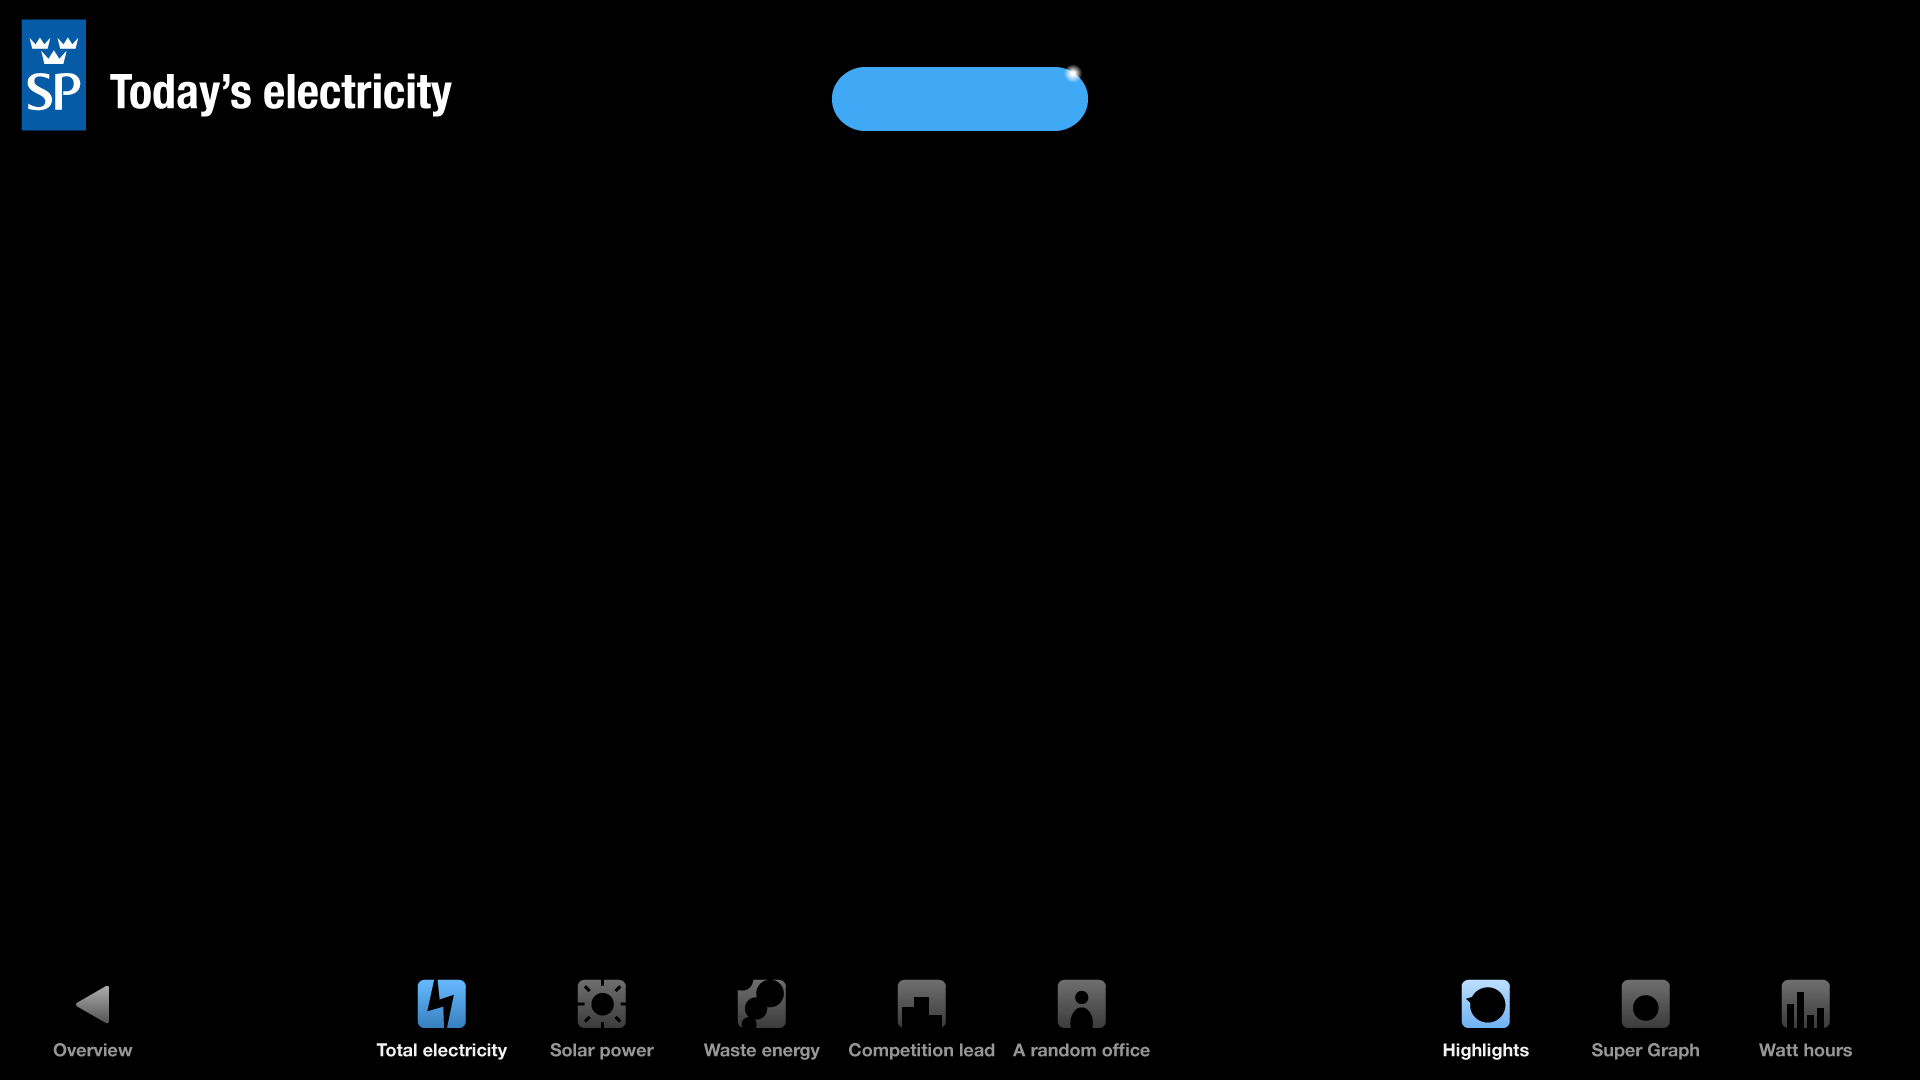
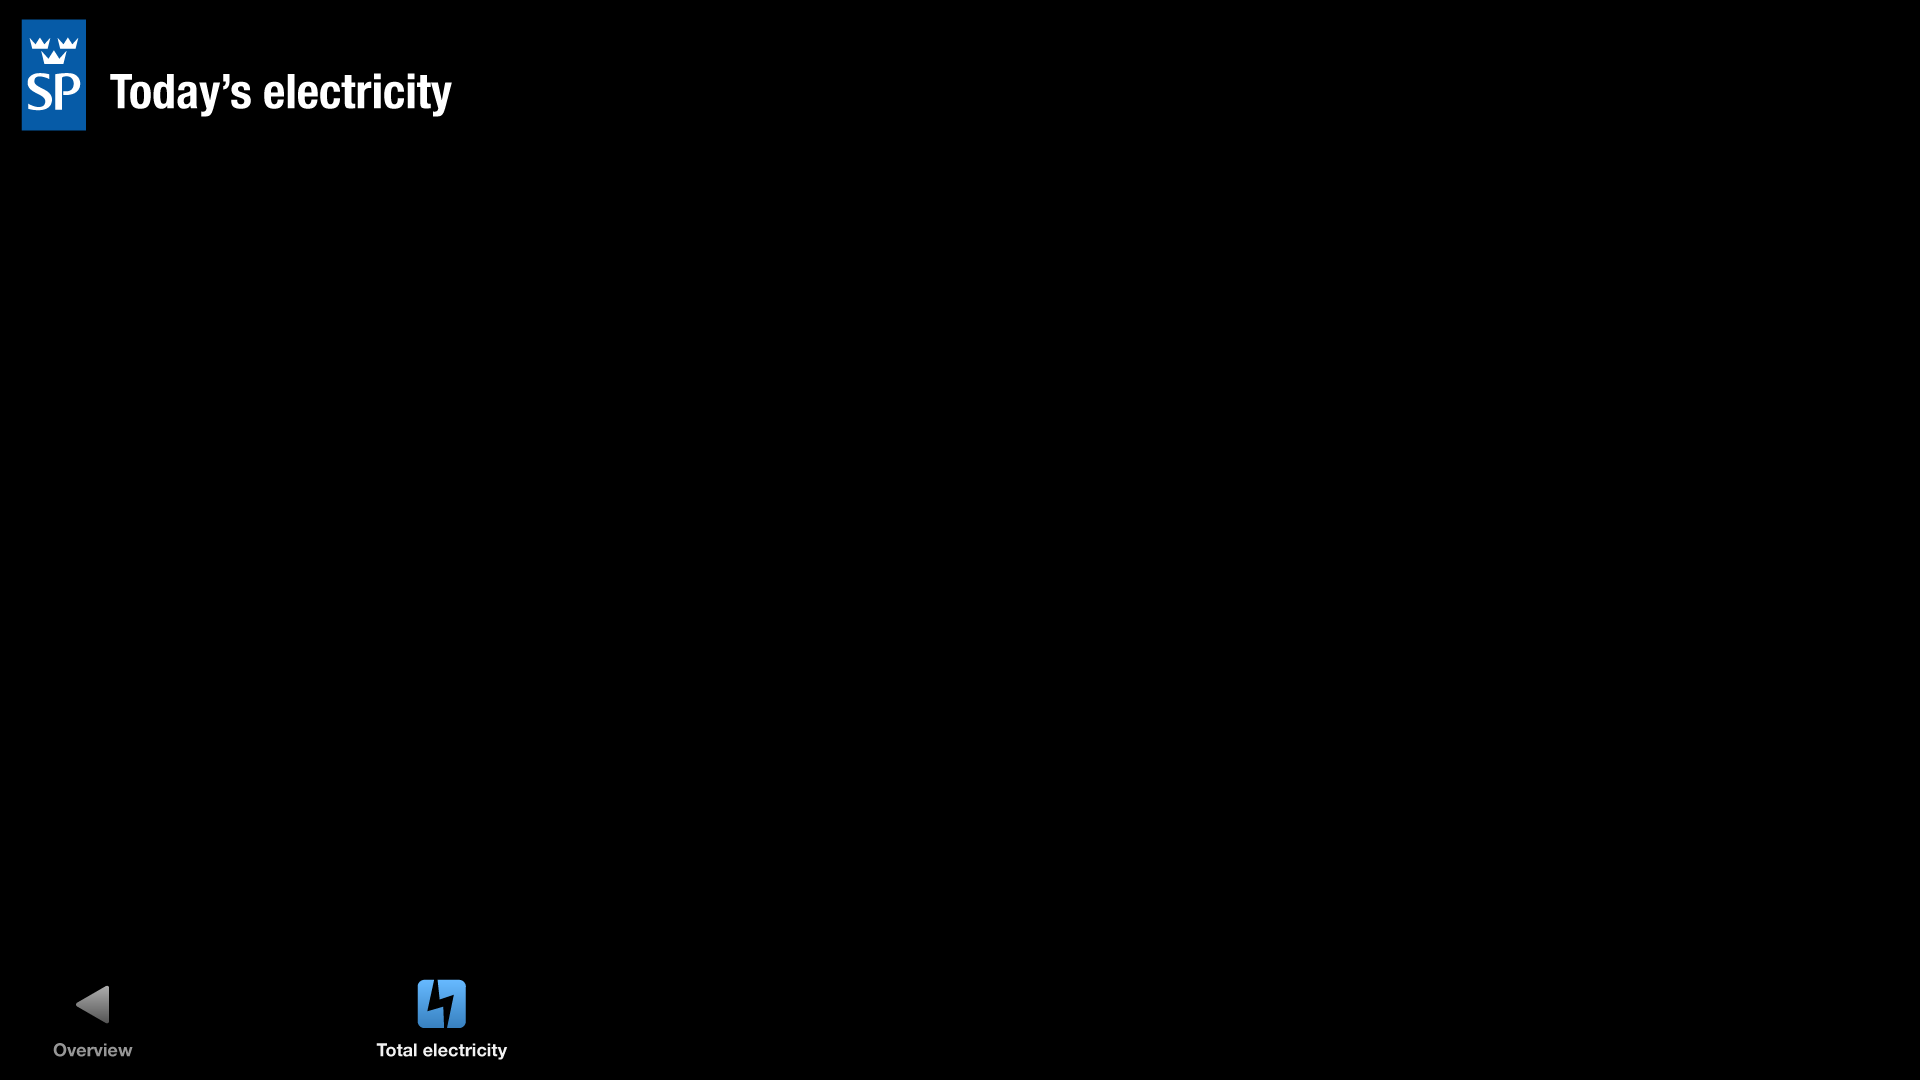
Zooming works with slider

diff --git a/app/d3main.js b/app/d3main.js
@@ -85,7 +85,7 @@ Chart.prototype.construct = function ChartConstruct() {
   
   this.zoom = d3.behavior.zoom()
       .x(x)
-      .scaleExtent([1, Infinity])
+      .scaleExtent([1, 1000]) // TODO prefer to define this related to time
       .on('zoom', this.transform.bind(this));
 
   d3.json
@@ -158,8 +158,6 @@ Chart.prototype.init = function ChartInit(container) {
   this.chart.append('g')
       .attr('class', 'yText axis');
 
-  this.transform();
-
   //d3.select(window).on('mouseup', this.loadData.bind(this));
   var timeout;
   var touchend = function touchend(event) {
@@ -174,8 +172,62 @@ Chart.prototype.init = function ChartInit(container) {
     timeout = setTimeout(this.loadData.bind(this), 500);
   }.bind(this));
   */
+  
+  var zooming = -1;
+  this.zoomer = d3.select(container).append('div')
+      .attr('class', 'zoomer');
+  this.zoomer.append('div')
+      .attr('class', 'handle')
+      .on('touchstart', function() {
+        zooming = d3.touches(this)[0][0];
+      })
+      .on('touchend', function() {
+        zooming = -1;
+      });
+  d3.select(container)
+      .on('touchmove', function() {
+        if (zooming == -1) return;
+        var handle = this.zoomer.select('.handle').node();
+        var position = (d3.touches(this.zoomer.node())[0][0] - zooming) / (this.zoomer.node().clientWidth - handle.clientWidth);
+        if (position < 0) position = 0;
+        if (position > 1) position = 1;
+        var extent = this.zoom.scaleExtent();
+        var scale = extent[0] + position * (extent[1] - extent[0]);
+        //this.zoom.translate([origX / scale, 0]);
+        //this.zoom.translate([0, 0]);
+        //this.zoom.translate([origX, 0]);
+        //this.zoom.setFocusPoint([960, 0]);
+        
+        //var x = 100;
+        //var translate = 960 + scale * (x - origX);
+        var screenOrigin = 960;
+        var translate = screenOrigin - (screenOrigin - this.zoom.translate()[0]) * scale / this.zoom.scale();
+        this.zoom.translate([translate, 0]);
+        this.zoom.scale(scale);
+        //this.zoom.translate([960 - scale * (x + origX), 0]);
+        //this.zoom.translate([origX, 0]);
+        this.transform();
+        //var position = d3.touches(this)[0][0] - zooming;
+        //console.log('zooming', position, d3.touches(this)[0][0], zooming);
+      }.bind(this));//.bind(this.zoomer.select('.handle').node()));
+      // let position change after zoom events, to keep 1-1
+      /*
+  this.zoom.on('zoom', function() {
+    var width = this.zoomer.node().clientWidth;
+    console.log(width)
+//    this.zoomer.select('.handle')
+  }.bind(this));
+      */
+  
+      this.transform();
+  
   this.loadData();
   
+  /*
+  this.chart.on('touchmove', function() {
+    console.log(d3.touches());
+  });
+  */
   //this.listen();
 };
 
@@ -254,6 +306,12 @@ Chart.prototype.transform = function ChartTransform() {
   
   this.chart.select('.line')
       .attr('filter', 'none');
+  
+  var handle = this.zoomer.select('.handle').node();
+  var scale = this.zoom.scale();
+  var extent = this.zoom.scaleExtent();
+  var width = this.zoomer.node().clientWidth - handle.clientWidth;
+  handle.style.left = (scale - extent[0]) / (extent[1] - extent[0]) * width + 'px';
 }
 
 Chart.prototype.loadData = function ChartLoadData() {
@@ -290,6 +348,9 @@ Chart.prototype.loadData = function ChartLoadData() {
 
     var oldDomain = this.y.domain()[1];
     var newDomain = d3.max(data.map(function(d) { return d.value })) + Chart.EXTRA_UNITS_ABOVE;
+    
+    // TODO animate graph height using these values
+    console.log(oldDomain, newDomain);
     
     this.y.domain([0, newDomain]);
     var axis = this.chart.select('.y.axis')

diff --git a/app/d3.v3.js b/app/d3.v3.js
@@ -1099,7 +1099,7 @@ d3 = function() {
   };
   var d3_selectionRoot = d3.select(d3_selectRoot);
   d3.behavior.zoom = function() {
-    var translate = [ 0, 0 ], translate0, scale = 1, scale0, scaleExtent = d3_behavior_zoomInfinity, event = d3_eventDispatch(zoom, "zoom"), x0, x1, y0, y1, startloc, touchtime;
+    var translate = [ 0, 0 ], translate0, scale = 1, scale0, scaleExtent = d3_behavior_zoomInfinity, event = d3_eventDispatch(zoom, "zoom"), x0, x1, y0, y1, touchtime;
     function zoom() {
       this.on("mousedown.zoom", mousedown).on("mousemove.zoom", mousemove).on(d3_behavior_zoomWheel + ".zoom", mousewheel).on("dblclick.zoom", dblclick).on("touchstart.zoom", touchstart).on("touchmove.zoom", touchmove).on("touchend.zoom", touchstart);
     }
@@ -1182,6 +1182,11 @@ d3 = function() {
         if (moved && d3.event.target === eventTarget) d3_eventSuppress(w, "click.zoom");
       }
     }
+    zoom.setFocusPoint = function(p) {
+      if (!translate0) translate0 = location(p);
+      translateTo(p, translate0);
+      console.log("setting focus", p, translate);
+    };
     function mousewheel() {
       if (!translate0) translate0 = location(d3.mouse(this));
       scaleTo(Math.pow(2, d3_behavior_zoomDelta() * .002) * scale);
@@ -1213,9 +1218,6 @@ d3 = function() {
           dispatch(event.of(this, arguments));
         }
         touchtime = now;
-      } else if (touches.length > 1) {
-        var loc0 = location(touches[0]), loc1 = location(touches[1]);
-        startloc = [ loc0[0] - loc1[0], loc0[1] - loc1[1] ];
       }
     }
     function touchmove() {
@@ -1224,11 +1226,7 @@ d3 = function() {
         var p1, l1 = translate0[p1.identifier];
         p0 = [ (p0[0] + p1[0]) / 2, (p0[1] + p1[1]) / 2 ];
         l0 = [ (l0[0] + l1[0]) / 2, (l0[1] + l1[1]) / 2 ];
-        if (d3.event.scale == undefined) {
-          var loc0 = location(touches[0]), loc1 = location(touches[1]), endloc = [ loc0[0] - loc1[0], loc0[1] - loc1[1] ];
-          d3.event.scale = Math.sqrt(endloc[0] * endloc[0] + endloc[1] * endloc[1]) / Math.sqrt(startloc[0] * startloc[0] + startloc[1] * startloc[1]);
-        }
-        scaleTo(d3.event.scale * scale0);
+        if (d3.event.scale) scaleTo(d3.event.scale * scale0);
       }
       translateTo(p0, l0);
       touchtime = null;

diff --git a/app/d3.css b/app/d3.css
@@ -53,3 +53,22 @@ body {
 .time .y.axis .domain, .time .yText.axis .domain {
   display: none;
 }
+
+.zoomer {
+  position: absolute;
+  bottom: 50px;
+  right: 50px;
+  background: #000;
+  border: 1px solid #fff;
+  width: 360px;
+  height: 44px;
+  border-radius: 22px;
+  box-shadow: 0 0 40px 40px #000;
+}
+.zoomer .handle {
+  width: 44px;
+  height: 44px;
+  border-radius: 22px;
+  background: #ccc;
+  position: absolute;
+}
